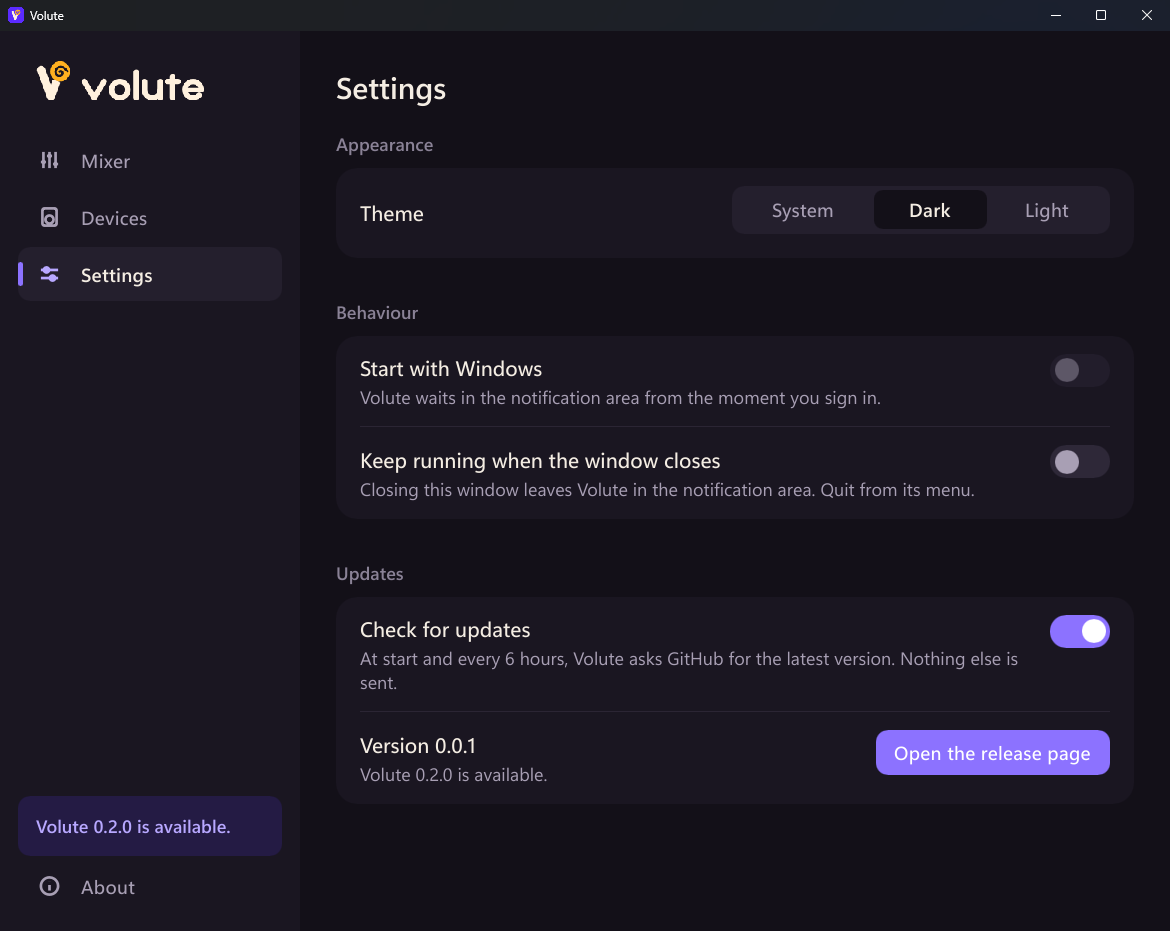
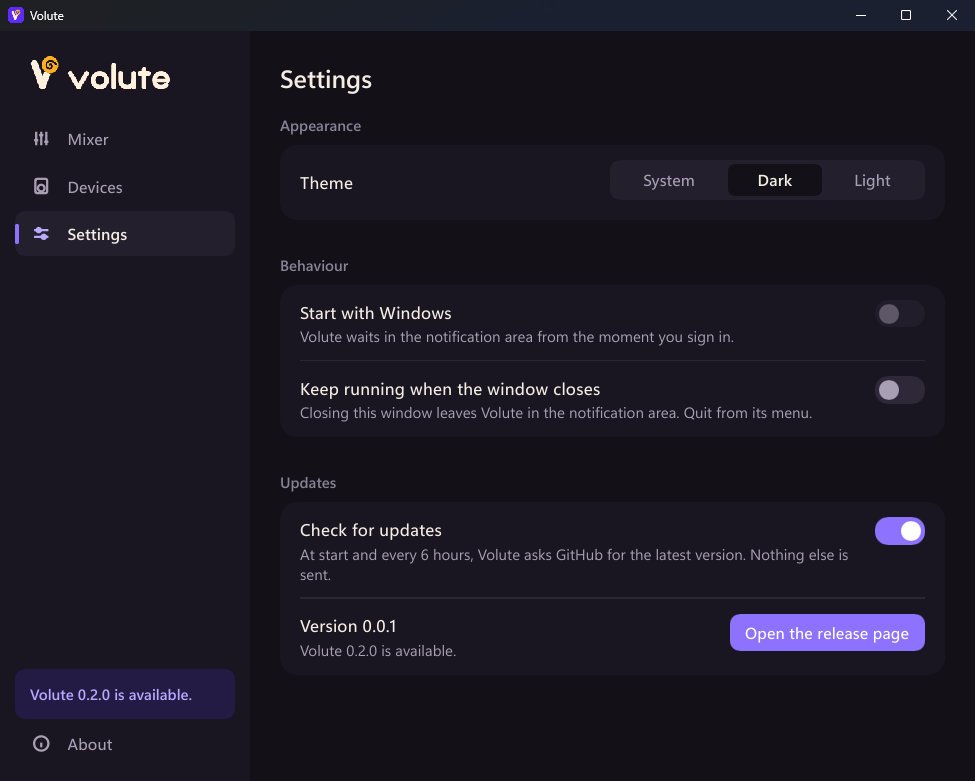
docs: design audit with a before/after board, performance audit, architecture and agent guide brought up to date; screenshots of the main window retaken at 1.25x, whole; the size figure on the site and README is the installer's 6.4 MB

diff --git a/docs/ux/redesign/board.html b/docs/ux/redesign/board.html
@@ -1,0 +1,29 @@
+<!doctype html>
+<html><head><meta charset="utf-8">
+<style>
+  @font-face { font-family: Figtree; src: url("../../../site/assets/fonts/figtree.woff2"); font-weight: 400 800; }
+  body { margin: 0; background: #131018; color: #F4EDE3; font-family: Figtree, sans-serif; padding: 56px; }
+  h1 { font-size: 44px; margin: 0 0 8px; letter-spacing: -0.03em; }
+  p.sub { color: #A89FB4; font-size: 19px; margin: 0 0 44px; }
+  .row { display: flex; gap: 40px; align-items: flex-start; margin-bottom: 56px; }
+  figure { margin: 0; }
+  figcaption { color: #A89FB4; font-size: 16px; margin-top: 12px; }
+  .tag { display: inline-block; font-size: 13px; font-weight: 700; letter-spacing: .08em; text-transform: uppercase; padding: 4px 10px; border-radius: 6px; margin-bottom: 14px; }
+  .before { background: #2B2534; color: #A89FB4; }
+  .after { background: #FFB020; color: #1B1530; }
+  img { border-radius: 10px; display: block; }
+</style></head>
+<body>
+  <h1>Volute — avant et après la refonte</h1>
+  <p class="sub">Même démo (--mock). À gauche M1, à droite le 25 octobre : surfaces neutres au repos, le niveau en ambre dans le remplissage, le violet seulement pour Volute qui parle.</p>
+  <div class="row">
+    <figure><span class="tag before">Avant</span><img src="before-flyout-dark.png" width="360"><figcaption>Bandeau violet saturé, faders violets au repos, pastilles d'initiales.</figcaption></figure>
+    <figure><span class="tag after">Après</span><img src="after-flyout-dark.png" width="360"><figcaption>Calme au repos, le son en ambre, une vraie hiérarchie.</figcaption></figure>
+    <figure><span class="tag after">Après, clair</span><img src="after-flyout-light.png" width="360"><figcaption>Le même en thème clair.</figcaption></figure>
+  </div>
+  <div class="row">
+    <figure><span class="tag before">Avant</span><img src="before-main-dark.png" width="420"><figcaption>Onglets en pilule, texte minuscule, « À propos » dans une autre fenêtre.</figcaption></figure>
+    <figure><span class="tag after">Après</span><img src="after-main-light.png" width="585"><figcaption>Un rail, quatre vues, la sortie principale comme un instrument.</figcaption></figure>
+    <figure><span class="tag after">Nouveau</span><img src="after-settings-dark.png" width="585"><figcaption>Réglages : thème, démarrage, fermeture, mises à jour.</figcaption></figure>
+  </div>
+</body></html>

diff --git a/site/index.html b/site/index.html
@@ -111,7 +111,7 @@
           </article>
         </div>
         <figure class="wide-shot">
-          <img class="shot" src="assets/main-light.png" width="1170" height="931" alt="La fenêtre principale de Volute en thème clair : un rail avec Mélangeur, Périphériques, Réglages et À propos, et la vue du mélangeur." loading="lazy">
+          <img class="shot" src="assets/main-light.png" width="975" height="781" alt="La fenêtre principale de Volute en thème clair : un rail avec Mélangeur, Périphériques, Réglages et À propos, et la vue du mélangeur." loading="lazy">
           <figcaption class="caption">La fenêtre principale : tous les périphériques, les réglages, en clair ou en sombre.</figcaption>
         </figure>
       </div>
@@ -126,7 +126,7 @@
           <div><dt>0,000&nbsp;%</dt><dd>de processeur en attente dans la zone de notification</dd></div>
           <div><dt>4&nbsp;Mo</dt><dd>de mémoire en attente</dd></div>
           <div><dt>0,12&nbsp;ms</dt><dd>pour appliquer un volume</dd></div>
-          <div><dt>6&nbsp;Mo</dt><dd>un seul exécutable, rien d'autre</dd></div>
+          <div><dt>6,4&nbsp;Mo</dt><dd>l'installateur, sans rien d'autre à installer</dd></div>
         </dl>
         <p class="note">Mesuré avec <code>cargo xtask bench-overhead</code> sur la machine de l'auteur. Mélangeur ouvert, avec les niveaux qui bougent : 2 à 4 % d'un cœur. Les chiffres et la méthode sont dans le <a href="https://github.com/EvanPluchart/volute/blob/main/docs/ARCHITECTURE.md">document d'architecture</a>.</p>
       </div>

diff --git a/site/en/index.html b/site/en/index.html
@@ -111,7 +111,7 @@
           </article>
         </div>
         <figure class="wide-shot">
-          <img class="shot" src="../assets/en/main-light.png" width="1170" height="931" alt="Volute's main window in the light theme: a rail with Mixer, Devices, Settings and About, and the mixer view." loading="lazy">
+          <img class="shot" src="../assets/en/main-light.png" width="975" height="781" alt="Volute's main window in the light theme: a rail with Mixer, Devices, Settings and About, and the mixer view." loading="lazy">
           <figcaption class="caption">The main window: every device, the settings, in light or dark.</figcaption>
         </figure>
       </div>
@@ -126,7 +126,7 @@
           <div><dt>0.000&nbsp;%</dt><dd>CPU while it waits in the notification area</dd></div>
           <div><dt>4&nbsp;MB</dt><dd>of memory while it waits</dd></div>
           <div><dt>0.12&nbsp;ms</dt><dd>to apply a volume</dd></div>
-          <div><dt>6&nbsp;MB</dt><dd>one executable, nothing else</dd></div>
+          <div><dt>6.4&nbsp;MB</dt><dd>the installer, with nothing else to install</dd></div>
         </dl>
         <p class="note">Measured with <code>cargo xtask bench-overhead</code> on the author's machine. With the mixer open and the meters moving: 2 to 4 % of one core. The figures and the method are in the <a href="https://github.com/EvanPluchart/volute/blob/main/docs/ARCHITECTURE.md">architecture document</a>.</p>
       </div>

diff --git a/docs/ux/redesign.md b/docs/ux/redesign.md
@@ -1,0 +1,38 @@
+# Design audit and redesign — 2026-10-25
+
+Board: [redesign/board.png](redesign/board.png), M1 on the left, the redesign on the right, both on the demo backend.
+
+## What was wrong (judged against docs/BRAND.md)
+
+| # | Finding | Principle it broke | Severity |
+|---|---|---|---|
+| 1 | The master sat on a slab of saturated violet, in both themes: the loudest thing on screen was chrome, not sound. | Calm at rest; one accent | High |
+| 2 | Every fader was filled in violet at rest, so nothing told a playing app from a silent one. | Colour comes from sound | High |
+| 3 | The live level was a thin amber line hidden inside violet: hard to see. | Sound you can see | Medium |
+| 4 | Apps without icons showed a letter on a violet tile; the demo looked like placeholders. | Instruments, not forms | Medium |
+| 5 | Names were 12 px above the faders, figures large and bold beside them: the hierarchy was upside down. | — | Medium |
+| 6 | The main window had pill tabs, tiny text, and About opened a second window. No Settings at all. | — | High |
+| 7 | Buttons, switches and the output picker could not be reached with the keyboard. | AA, keyboard | Medium |
+| 8 | A flyout that grew while open left a blank strip at the bottom (in M1 already). | — | High |
+
+## What changed
+
+* **Tokens** (`ui/theme.slint`): neutral warm surfaces in four steps (background, surface, hover, raised), three text levels each AA or better, a neutral fader fill, amber only for levels, violet only for Volute speaking (selection, focus, an update), red only for what cuts sound. Segoe UI Variable, Windows 11's own face.
+* **The fader:** a neutral track and fill; the level glows amber *inside* the fill, scaled by the volume, so it never runs past the thumb and silence leaves the fill calm. The thumb is ringed in the surface colour; hover and focus strengthen the fill; focus adds a violet ring.
+* **The flyout:** the master on a quiet surface with a large figure and a weightier fader, the output's name as a selector with a check on the default; rows with the name and figure on one line, the fader under them, a hover; the microphone and "Open Volute ↗" in the footer; the update line on top when there is one.
+* **The main window:** a rail with the logo, Mixer, Devices, Settings and About; headings; cards for the master, devices and settings; an update reminder in the rail.
+* **Settings:** theme (segmented), start with Windows, keep running when the window closes (decision 0009), updates (decision 0005) with the version and one button.
+* **About:** the icon, the version, what Volute reads in one sentence, links, the Slint credit.
+* **The demo** draws its own app icons, so screenshots look like a real mixer without anyone's apps.
+* **Keyboard:** every control takes focus with Tab and works with Space or Enter; Escape closes the flyout from anywhere in it.
+
+## Checked
+
+* Contrast: text and text-muted are 7:1 or better on their surfaces in both themes; text-faint (figures, hints) 4.5:1 or better.
+* Budget: cheaper than before (main window 3.0 % on the mock instead of 3.9 %; see `docs/audits/2026-10-25-performance.md`).
+* English and French, every string through `@tr()` (the test passes).
+
+## Still open
+
+* Long device names are cut with an ellipsis; Slint 1.18 has no tooltip, and the accessible name carries the full name.
+* The OSD (M2) will use the same fader and tokens.

diff --git a/docs/audits/2026-10-25-performance.md b/docs/audits/2026-10-25-performance.md
@@ -1,0 +1,39 @@
+# Performance audit — 2026-10-25
+
+Scope: CPU, memory, latency and size after the redesign, the Settings and About views and the updater. Measured on the author's machine with `cargo xtask bench-overhead --seconds=60` (release build, 5 s warm-up, one core = 100 %).
+
+## Measurements
+
+| State | M1 (7274c45), mock | Now, mock | Budget |
+|---|---|---|---|
+| Main window open, meters running | 3.9 % CPU, 5.1 MB | **3.0 % CPU, 6.0 MB** | < 4 %, < 40 MB |
+| Flyout open over the tray | 3.3 % CPU, 5.2 MB | **2.95 % CPU, 5.0 MB** | < 4 %, < 40 MB |
+| Idle in the tray | 0.000 % CPU, 3.4 MB | **0.000 % CPU, 3.5 MB** | < 0.1 %, < 25 MB |
+
+The mock is the worst case: every app, the master and the microphone move every frame. The real backend measured 1.8 % open in M1.
+
+* **Latency:** `set_volume` on a real session, 0.12 ms median (the owned-session test fails above 16 ms); the flyout is created and shown in about 1 ms.
+* **Size:** `volute.exe` 10.9 MB, the installer 6.4 MB, the portable zip 5.7 MB.
+
+## What was checked
+
+* **Nothing polls at rest.** Volumes, mutes, devices and sessions come from Core Audio's events; the audio thread sleeps on its channel. Peaks are read at 30 Hz only while a mixer is on screen, and the main window stops them when minimised or covered (`Occluded`). Idle stays at 0.000 %.
+* **The updater costs nothing between checks:** its thread parks for 6 hours; the check is one HTTPS request without a body. Nothing is loaded for it until then (WinHTTP and BCrypt are part of Windows).
+* **One frame in flight.** A stalled UI never queues frames; memory stays flat over a run (peak and end within 0.2 MB).
+* **Models are patched, never replaced**, so a level change redraws the level, not the list; the master and microphone levels redraw nothing for changes under 0.4 %.
+* **The flyout is created on open and dropped on close**, so its frame buffer is freed while Volute waits.
+* **The redesign is cheaper, not dearer:** flat shapes, no shadows, no transparency except the update banner's tint, no animation. The level is drawn inside the fill, one rectangle per fader.
+* **App icons** are read once per executable at 48 px and cached; the demo's are drawn once.
+
+## Findings
+
+| # | Finding | Status |
+|---|---|---|
+| 1 | Slint 1.18's software renderer on winit renders each meter update twice; this is most of the open cost. | Known since M0, outside Volute; the budget allows 4 %. Revisit when Slint is upgraded (a dedicated commit, on request). |
+| 2 | A window that grows on screen, or whose off-screen part comes back, is not drawn there (the renderer redraws only what changed). A flyout that gained a row while open showed a blank strip, in M1 already. | Fixed: the main window is sized before it shows, and a flyout whose height must change is opened again (about 1 ms). |
+| 3 | The binary carries Slint's clipboard, menu and URL-opening crates that Volute never calls (they come with the winit backend). | Kept: they cost disk, not memory, since untouched pages are never loaded; trimming them means Slint feature work. |
+| 4 | Release profile already: fat LTO, one codegen unit, stripped, `panic = abort`. | Nothing to do. |
+
+## How to repeat it
+
+`cargo xtask bench-overhead` (60 s per state by default, `--real` for this machine's devices, read only), on an idle machine. Update this table and the one in `docs/ARCHITECTURE.md`.

diff --git a/docs/ARCHITECTURE.md b/docs/ARCHITECTURE.md
@@ -73,7 +73,7 @@ pub trait Audio: Send {
 * Slint, every view in `ui/*.slint`, every token in `ui/theme.slint` (from `docs/BRAND.md`). Volute draws its own controls (sliders, meters, switches, menus): native widgets do not match the art direction.
 * **Windows:**
   * the **mixer flyout**, compact, opened from the tray or a shortcut, closing when it loses focus;
-  * the **main window**, with Mixer, Devices, Profiles and Settings;
+  * the **main window**: a rail with Mixer, Devices, Settings and About (Profiles come in M3);
   * the **OSD**, a borderless, topmost window that never takes focus.
 * The audio thread sends frames with `slint::invoke_from_event_loop`, at most one in flight. Models are patched (`set_row_data`, inserts, removals), never replaced.
 
@@ -84,7 +84,9 @@ pub trait Audio: Send {
 | UI (main) | Slint windows | Renders, patches models, sends commands |
 | audio | the `Audio` backend (COM, MTA) | Applies commands, turns COM events into model updates, reads peaks while a meter shows |
 | hook | the `WH_KEYBOARD_LL` hook and its message loop | Filters volume keys and shortcuts, posts them, returns immediately |
-| tray | the tray window and its message loop | Tray clicks, scroll, menu |
+| tray | the tray window and its message loop | Tray clicks, scroll, menu, notifications |
+| update | nothing but its timer | One HTTPS request at start (3 s) and every 6 hours; parks in between (decision 0005). Never joined: it holds nothing |
+| download | the update's files while they download | Fetches, verifies the signature and the checksum, hands the held installer to the UI thread, ends |
 | COM callbacks | Windows' | Push events into the audio thread's channel; nothing else |
 
 * Commands go UI → audio over a `flume` channel. Events and frames go back through `invoke_from_event_loop`.
@@ -104,7 +106,8 @@ pub trait Audio: Send {
 
 * Meters read peaks at 30 Hz only while a meter is visible. Nothing ticks when nothing is shown.
 * From a key press to the volume being applied: under 16 ms. The OSD appears in the next frame.
-* **The open state is allowed 4 % for now.** With Slint 1.18 on winit and the software renderer, every meter update renders twice, whatever the window holds (measured in M0: 2.6 to 3.4 %). Volute's own meter control in the design track comes back to the 2 % target.
+* **The open state is allowed 4 % for now.** With Slint 1.18 on winit and the software renderer, every meter update renders twice, whatever the window holds (measured in M0: 2.6 to 3.4 %). After the redesign (2026-10-25), on the mock, the worst case where every row moves every frame: 3.0 % with the main window open, 2.95 % with the flyout, 0.000 % and 3.5 MB idle (`docs/audits/2026-10-25-performance.md`).
+* **A window must not grow on screen.** Slint 1.18 redraws only what changed, so a part of a window that was off screen, or uncovered by a resize the renderer did not see, stays blank. The main window is sized before it shows; a flyout whose rows change its height is opened again at the new height.
 * `cargo xtask bench-overhead` measures the idle and open states, run by hand on an idle machine; a release checks it.
 
 ## Conventions

diff --git a/docs/ux/m1.md b/docs/ux/m1.md
@@ -19,7 +19,7 @@ Screens: [board.png](m1/board.png) (the flyout on the mock, dark and light, on t
 | 2 | Long device names are cut ("Haut-parleurs (Logitech PRO X Wireless G…"). | Low | The full name in a tooltip (Volute's own tooltip, design track). |
 | 3 | Apps without a readable name showed their file name in lower case ("hollow_knight"). | Low | Fixed: the first letter is a capital ("Hollow_knight"). |
 | 4 | The main window opened at its minimum height. | Medium | Fixed: it opens at 460 × 640. |
-| 5 | Keyboard: faders take the arrow keys, Page Up/Down, Home/End and the wheel; the tab order through the flyout is not checked yet. | Medium | Check with the keyboard alone before M1 closes. |
+| 5 | Keyboard: faders take the arrow keys, Page Up/Down, Home/End and the wheel; the tab order through the flyout is not checked yet. | Medium | Fixed in the redesign: every control takes Tab, Space and Enter ([redesign.md](redesign.md)). |
 | 6 | Changing the default output is in the band (a click on the device's name). Nothing says the name is clickable but the chevron. | Low | Keep; watch whether it is found in a day of use. |
 
 ## Not checked by hand
@@ -29,7 +29,9 @@ These need a person at the machine, and are the user's to verify (M1's exit is a
 * dragging faders and muting real apps;
 * switching the default output (it changes the machine, so no test calls it);
 * the wheel over the tray icon, and the flyout closing when focus leaves;
-* the tray icon coming back after an Explorer restart.
+* the tray icon coming back after an Explorer restart;
+* Settings: Start with Windows (it writes the `Run` value), keeping Volute in the tray on close, the theme;
+* the flyout's keyboard path: Tab through it, Space on a mute button, Escape.
 
 ## Budget (`cargo xtask bench-overhead`)
 

diff --git a/CLAUDE.md b/CLAUDE.md
@@ -28,11 +28,12 @@ cargo clippy --workspace -- -D warnings
 cargo run -p volute -- --open --no-settings
 cargo xtask check          # check, test and clippy, all --locked: run before every push (no hosted CI, decision 0006)
 cargo xtask bench-overhead
+cargo xtask dist           # installer, portable zip, SHA256SUMS and its signature into dist/ (decisions 0005, 0010); uploads nothing
 ```
 
 ## Seeing the app
 
-Launch with test flags (`--open`, `--osd`, `--tab`, `--dark`/`--light`, `--no-settings`, `--no-tray`, `--no-hook`, `--no-update-check`) to reach a state directly. On Windows, capture windows with PrintWindow, not a screen grab. Never send synthetic input unless the Volute window is verified to be in the foreground. Test runs never go online and never install a keyboard hook unless the test is about the hook.
+Launch with test flags (`--open`, `--mock`, `--flyout[=center]`, `--tab=mixer|devices|settings|about`, `--dark`/`--light`, `--lang=en|fr`, `--no-settings`, `--no-tray`, `--no-update-check`, `--offer-update=X.Y.Z`; `--osd` and `--no-hook` come with M2) to reach a state directly. Screenshots for anything public use `--mock`, never the user's real apps. The release signing key lives outside the repository (decision 0010): never copy, print or commit it. On Windows, capture windows with PrintWindow, not a screen grab. Never send synthetic input unless the Volute window is verified to be in the foreground. Test runs never go online and never install a keyboard hook unless the test is about the hook.
 
 ## Skills
 

diff --git a/site/README.md b/site/README.md
@@ -5,7 +5,7 @@ The static page for GitHub Pages, in French (`index.html`) and English (`en/inde
 * **Design:** `DESIGN.md`; the brand is in `../docs/BRAND.md`.
 * **Screenshots:** the real app on its demo backend, never the author's own apps:
   * flyouts at 2x: `SLINT_SCALE_FACTOR=2 volute --mock --no-settings --dark --flyout=center --lang=fr|en` (add `--offer-update=0.2.0` for the update line);
-  * the main window at 1.5x: `SLINT_SCALE_FACTOR=1.5 volute --mock --no-settings --no-tray --light --open --lang=fr|en`, cropped of its 8 px invisible border;
+  * the main window at 1.25x: `SLINT_SCALE_FACTOR=1.25 volute --mock --no-settings --no-tray --light --open --lang=fr|en`, cropped of its 8 px invisible border;
   * captured with PrintWindow (`docs/ux` has the scripts' description).
 * **Social images:** `assets/og.png` and `assets/og-en.png`, from `assets/og-source.html#fr|#en` with headless Chrome at 1200 × 630.
 * **Publish** (decision 0011): once the repository is public, enable Pages with "GitHub Actions" as its source, then run the Pages workflow by hand (`.github/workflows/pages.yml`). The page expects `https://evanpluchart.github.io/volute/`; every asset path is relative.

diff --git a/README.md b/README.md
@@ -41,7 +41,7 @@ Volute stays in the tray all day, so it is built to cost nothing while it waits.
 | Mixer open, meters running | 2 to 4 % | about 6 MB |
 | Applying a volume | 0.12 ms | |
 
-It is Rust and [Slint](https://slint.dev) with a software renderer: no browser engine, no runtime to install, one 6 MB executable. Volume changes and device switches come from Windows' own audio events; nothing polls except the meters, and only while you look at them.
+It is Rust and [Slint](https://slint.dev) with a software renderer: no browser engine, no runtime to install: a 6.4 MB installer, one executable. Volume changes and device switches come from Windows' own audio events; nothing polls except the meters, and only while you look at them.
 
 ## What it reads, and what it never does
 
